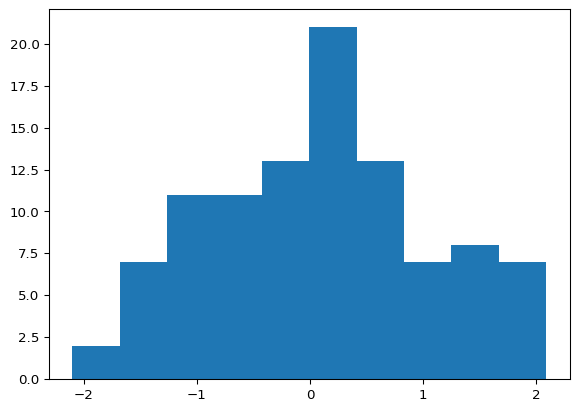
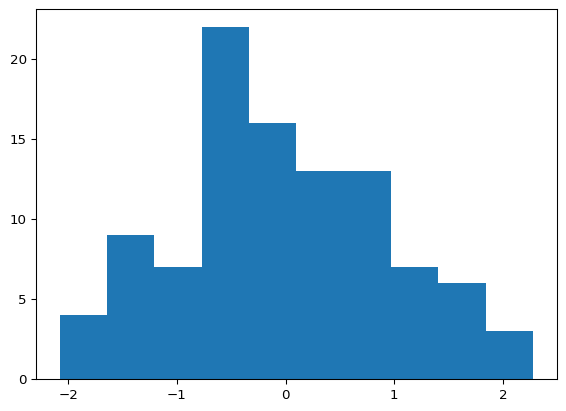
Built site for gh-pages

diff --git a/resume.html b/resume.html
@@ -206,6 +206,18 @@ ul.task-list li input[type="checkbox"] {
   <ul class="collapse">
   <li><a href="#university-of-california-berkeley" id="toc-university-of-california-berkeley" class="nav-link" data-scroll-target="#university-of-california-berkeley">University of California, Berkeley</a></li>
   </ul></li>
+  <li><a href="#professional-experience" id="toc-professional-experience" class="nav-link" data-scroll-target="#professional-experience">Professional Experience</a>
+  <ul class="collapse">
+  <li><a href="#blck-unicrn-ai-researcher-data-analyst-internship" id="toc-blck-unicrn-ai-researcher-data-analyst-internship" class="nav-link" data-scroll-target="#blck-unicrn-ai-researcher-data-analyst-internship">BLCK UNICRN (AI Researcher &amp; Data Analyst Internship)</a></li>
+  <li><a href="#beats-by-dre-consumer-insights-data-analyst-internship" id="toc-beats-by-dre-consumer-insights-data-analyst-internship" class="nav-link" data-scroll-target="#beats-by-dre-consumer-insights-data-analyst-internship">Beats by Dre (Consumer Insights &amp; Data Analyst Internship)</a></li>
+  <li><a href="#success-chess-school-chess-instructor" id="toc-success-chess-school-chess-instructor" class="nav-link" data-scroll-target="#success-chess-school-chess-instructor">Success Chess School (Chess Instructor)</a></li>
+  <li><a href="#giraffe-learning-center-math-chess-instructor" id="toc-giraffe-learning-center-math-chess-instructor" class="nav-link" data-scroll-target="#giraffe-learning-center-math-chess-instructor">Giraffe Learning Center (Math &amp; Chess Instructor)</a></li>
+  </ul></li>
+  <li><a href="#volunteer-leadership" id="toc-volunteer-leadership" class="nav-link" data-scroll-target="#volunteer-leadership">Volunteer &amp; Leadership</a>
+  <ul class="collapse">
+  <li><a href="#american-allegiance-of-education-co-founder" id="toc-american-allegiance-of-education-co-founder" class="nav-link" data-scroll-target="#american-allegiance-of-education-co-founder">American Allegiance of Education (Co-Founder)</a></li>
+  <li><a href="#washington-high-school-math-center-volunteer" id="toc-washington-high-school-math-center-volunteer" class="nav-link" data-scroll-target="#washington-high-school-math-center-volunteer">Washington High School (Math Center Volunteer)</a></li>
+  </ul></li>
   <li><a href="#skills-additional-info" id="toc-skills-additional-info" class="nav-link" data-scroll-target="#skills-additional-info">Skills &amp; Additional Info</a></li>
   </ul>
 </nav>
@@ -313,12 +325,12 @@ ul.task-list li input[type="checkbox"] {
 August 2023 – May 2025 | Berkeley, CA
 </p>
 <ul>
-<li><strong><a href="./berkeley-coursework.html">Relevant Coursework</a>:</strong> CS 61A: Structure &amp; Interpretation of Computer Programs, CS 61B: Data Structures &amp; Algorithms, DATA 100: Principles &amp; Techniques of Data Science, STAT 133: Concepts in Computing with Data, STAT 151A: Linear Modelling (Theory &amp; Applications), STAT 154: Modern Statistical Prediction &amp; Machine Learning, STAT 165: Forecasting, UGBA 102A: Financial Accounting, UGBA 104: Business Analytics.</li>
+<li><strong><a href="./berkeley-coursework.html">Relevant Coursework</a>:</strong> CS 61A: Structure &amp; Interpretation of Computer Programs, CS 61B: Data Structures &amp; Algorithms, DATA 100: Principles &amp; Techniques of Data Science, STAT 133: Concepts in Computing with Data, STAT 151A: Linear Modelling (Theory &amp; Applications), STAT 154: Modern Statistical Prediction &amp; Machine Learning, STAT 165: Forecasting, UGBA 102A: Financial Accounting, UGBA 104: Business Analytics.<br>
+</li>
 </ul>
 </section>
 </section>
-<div class="timeline experience">
-<section id="professional-experience" class="level2">
+<section id="professional-experience" class="level2 timeline experience">
 <h2 class="anchored" data-anchor-id="professional-experience">Professional Experience</h2>
 <section id="blck-unicrn-ai-researcher-data-analyst-internship" class="level3 timeline-item">
 <h3 class="anchored" data-anchor-id="blck-unicrn-ai-researcher-data-analyst-internship">BLCK UNICRN (AI Researcher &amp; Data Analyst Internship)</h3>
@@ -360,9 +372,11 @@ September 2021 – May 2023 | Fremont, CA
 <ul>
 <li>Mentored 150+ students over the course of two years, emphasizing strategic thinking and sportsmanship, resulting in consistent performance improvement and higher student retention.<br>
 </li>
-<li>Authored an instructional chess book tailored for beginners, integrating puzzles and detailed analyses of 15 fundamental openings to reinforce strategic learning and critical thinking.</li>
-<li>Organized 10+ tournaments, leveraging a custom-built Excel-based matchmaking system that automatically paired participants by analyzing ELO ratings and skill levels (beginner, intermediate, advanced).</li>
-<li>Conducted outreach, resulting in 20 % year-over-year (YoY) increase in registrations—all while fostering an engaging, supportive, and competitive academic environment.<br>
+<li>Authored an instructional chess book tailored for beginners, integrating puzzles and detailed analyses of 15 fundamental openings to reinforce strategic learning and critical thinking.<br>
+</li>
+<li>Organized 10+ tournaments, leveraging a custom-built Excel-based matchmaking system that automatically paired participants by analyzing ELO ratings and skill levels (beginner, intermediate, advanced).<br>
+</li>
+<li>Conducted outreach, resulting in a 20 % year-over-year (YoY) increase in registrations—all while fostering an engaging, supportive, and competitive academic environment.<br>
 </li>
 </ul>
 </section>
@@ -372,9 +386,12 @@ September 2021 – May 2023 | Fremont, CA
 June 2023 – June 2024 | Fremont, CA
 </p>
 <ul>
-<li>Taught middle school students Prealgebra–Geometry at Giraffe Learning Center’s summer and after-school programs: developed comprehensive LaTeX-based homework assignments and exams to reinforce core concepts and assess learning outcomes.</li>
-<li>Coached chess: developed and delivered a structured curriculum covering opening principles, tactics, and endgame techniques; provided one-on-one game analysis and feedback; organized skill-matched tournaments.</li>
-<li>Administered differentiated assessments and progress reports: analyzed results to tailor individualized learning plans and improve student outcomes.</li>
+<li>Taught middle school students Prealgebra–Geometry at Giraffe Learning Center’s summer and after-school programs: developed comprehensive LaTeX-based homework assignments and exams to reinforce core concepts and assess learning outcomes.<br>
+</li>
+<li>Coached chess: developed and delivered a structured curriculum covering opening principles, tactics, and endgame techniques; provided one-on-one game analysis and feedback; organized skill-matched tournaments.<br>
+</li>
+<li>Administered differentiated assessments and progress reports: analyzed results to tailor individualized learning plans and improve student outcomes.<br>
+</li>
 </ul>
 </section>
 </section>
@@ -398,32 +415,36 @@ May 2023 – October 2024 | Fremont, CA
 </li>
 </ul>
 </section>
-</section>
 <section id="washington-high-school-math-center-volunteer" class="level3 timeline-item">
 <h3 class="anchored" data-anchor-id="washington-high-school-math-center-volunteer">Washington High School (Math Center Volunteer)</h3>
 <p class="date">
-August 2018 – June 2021 | Fremont CA
+August 2018 – June 2021 | Fremont, CA
 </p>
 <ul>
-<li>Taught range of subjects (Prealgebra-Precalculus, AP Calculus BC) after school and during free-block periods, adapting lessons to diverse learning needs.<br>
+<li>Taught range of subjects (Prealgebra–Precalculus, AP Calculus BC) after school and during free-block periods, adapting lessons to diverse learning needs.<br>
 </li>
 <li>Helped design quizzes, assisted in exam corrections, and developed tailored exercises to reinforce learning—improving average student performance by at least one letter grade—all within a supportive, engaging environment.<br>
 </li>
 </ul>
 </section>
-</div>
+</section>
 <section id="skills-additional-info" class="level2 timeline skills">
 <h2 class="anchored" data-anchor-id="skills-additional-info">Skills &amp; Additional Info</h2>
 <div class="timeline-item">
 <ul>
 <li><strong>Languages:</strong>
 <ul>
-<li><strong>Advanced:</strong> Python (NumPy, Pandas, Matplotlib, Scikit-learn), SQL, R (Shiny, tidyverse)</li>
-<li><strong>Intermediate:</strong> Java, C++, MATLAB</li>
+<li><strong>Advanced:</strong> Python (NumPy, Pandas, Matplotlib, Scikit-learn), SQL, R (Shiny, tidyverse)<br>
+</li>
+<li><strong>Intermediate:</strong> Java, C++, MATLAB<br>
+</li>
 </ul></li>
-<li><strong>Tools:</strong> GitHub, Jupyter Notebook, MS Office (Word, Excel, PowerPoint, Outlook), LaTeX</li>
-<li><strong>Statistical Methods:</strong> Multivariate Data Analysis, Generalized Linear Models (GLMs), ANOVA, A/B Testing</li>
-<li><strong>Citizenship:</strong> U.S.-born citizen</li>
+<li><strong>Tools:</strong> GitHub, Jupyter Notebook, MS Office (Word, Excel, PowerPoint, Outlook), LaTeX<br>
+</li>
+<li><strong>Statistical Methods:</strong> Multivariate Data Analysis, Generalized Linear Models (GLMs), ANOVA, A/B Testing<br>
+</li>
+<li><strong>Citizenship:</strong> U.S.-born citizen<br>
+</li>
 </ul>
 </div>
 </section>

diff --git a/units/unit1.html b/units/unit1.html
@@ -193,7 +193,7 @@ $$
 <p>This is an example of using qmd as the source document.</p>
 <section id="evaluated-python-code-chunk-with-a-plot" class="level2">
 <h2 class="anchored" data-anchor-id="evaluated-python-code-chunk-with-a-plot">Evaluated Python code chunk, with a plot</h2>
-<div id="14db3a9d" class="cell" data-execution_count="1">
+<div id="a06676b0" class="cell" data-execution_count="1">
 <details open="" class="code-fold">
 <summary>Code</summary>
 <div class="sourceCode cell-code" id="cb1"><pre class="sourceCode python code-with-copy"><code class="sourceCode python"><span id="cb1-1"><a href="#cb1-1" aria-hidden="true" tabindex="-1"></a><span class="im">import</span> numpy <span class="im">as</span> np</span>
@@ -211,7 +211,7 @@ $$
 </div>
 </div>
 <div class="cell-output cell-output-display" data-execution_count="1">
-<pre><code>np.float64(-0.0649149850144107)</code></pre>
+<pre><code>np.float64(-0.06238946524840928)</code></pre>
 </div>
 </div>
 </section>
@@ -273,7 +273,7 @@ Tip with Title
 </div>
 <div id="tabset-1-2" class="tab-pane" role="tabpanel" aria-labelledby="tabset-1-2-tab">
 <p>This code is executed.</p>
-<div id="baf63c54" class="cell" data-execution_count="2">
+<div id="ea9058f4" class="cell" data-execution_count="2">
 <details open="" class="code-fold">
 <summary>Code</summary>
 <div class="sourceCode cell-code" id="cb4"><pre class="sourceCode python code-with-copy"><code class="sourceCode python"><span id="cb4-1"><a href="#cb4-1" aria-hidden="true" tabindex="-1"></a><span class="kw">def</span> fizz_buzz(num):</span>

diff --git a/units/unit3.html b/units/unit3.html
@@ -190,7 +190,7 @@ $$
 <p>This is an example of using qmd as the source document with pdf as one target. I’ve taken out the qmd stuff that doesn’t seem to render to pdf.</p>
 <section id="evaluated-python-code-chunk-with-a-plot" class="level2">
 <h2 class="anchored" data-anchor-id="evaluated-python-code-chunk-with-a-plot">Evaluated Python code chunk, with a plot</h2>
-<div id="f859da6c" class="cell" data-execution_count="1">
+<div id="a4567d34" class="cell" data-execution_count="1">
 <details open="" class="code-fold">
 <summary>Code</summary>
 <div class="sourceCode cell-code" id="cb1"><pre class="sourceCode python code-with-copy"><code class="sourceCode python"><span id="cb1-1"><a href="#cb1-1" aria-hidden="true" tabindex="-1"></a><span class="im">import</span> numpy <span class="im">as</span> np</span>
@@ -208,7 +208,7 @@ $$
 </div>
 </div>
 <div class="cell-output cell-output-display" data-execution_count="1">
-<pre><code>np.float64(0.09223655864593987)</code></pre>
+<pre><code>np.float64(-0.05109988543923846)</code></pre>
 </div>
 </div>
 </section>
